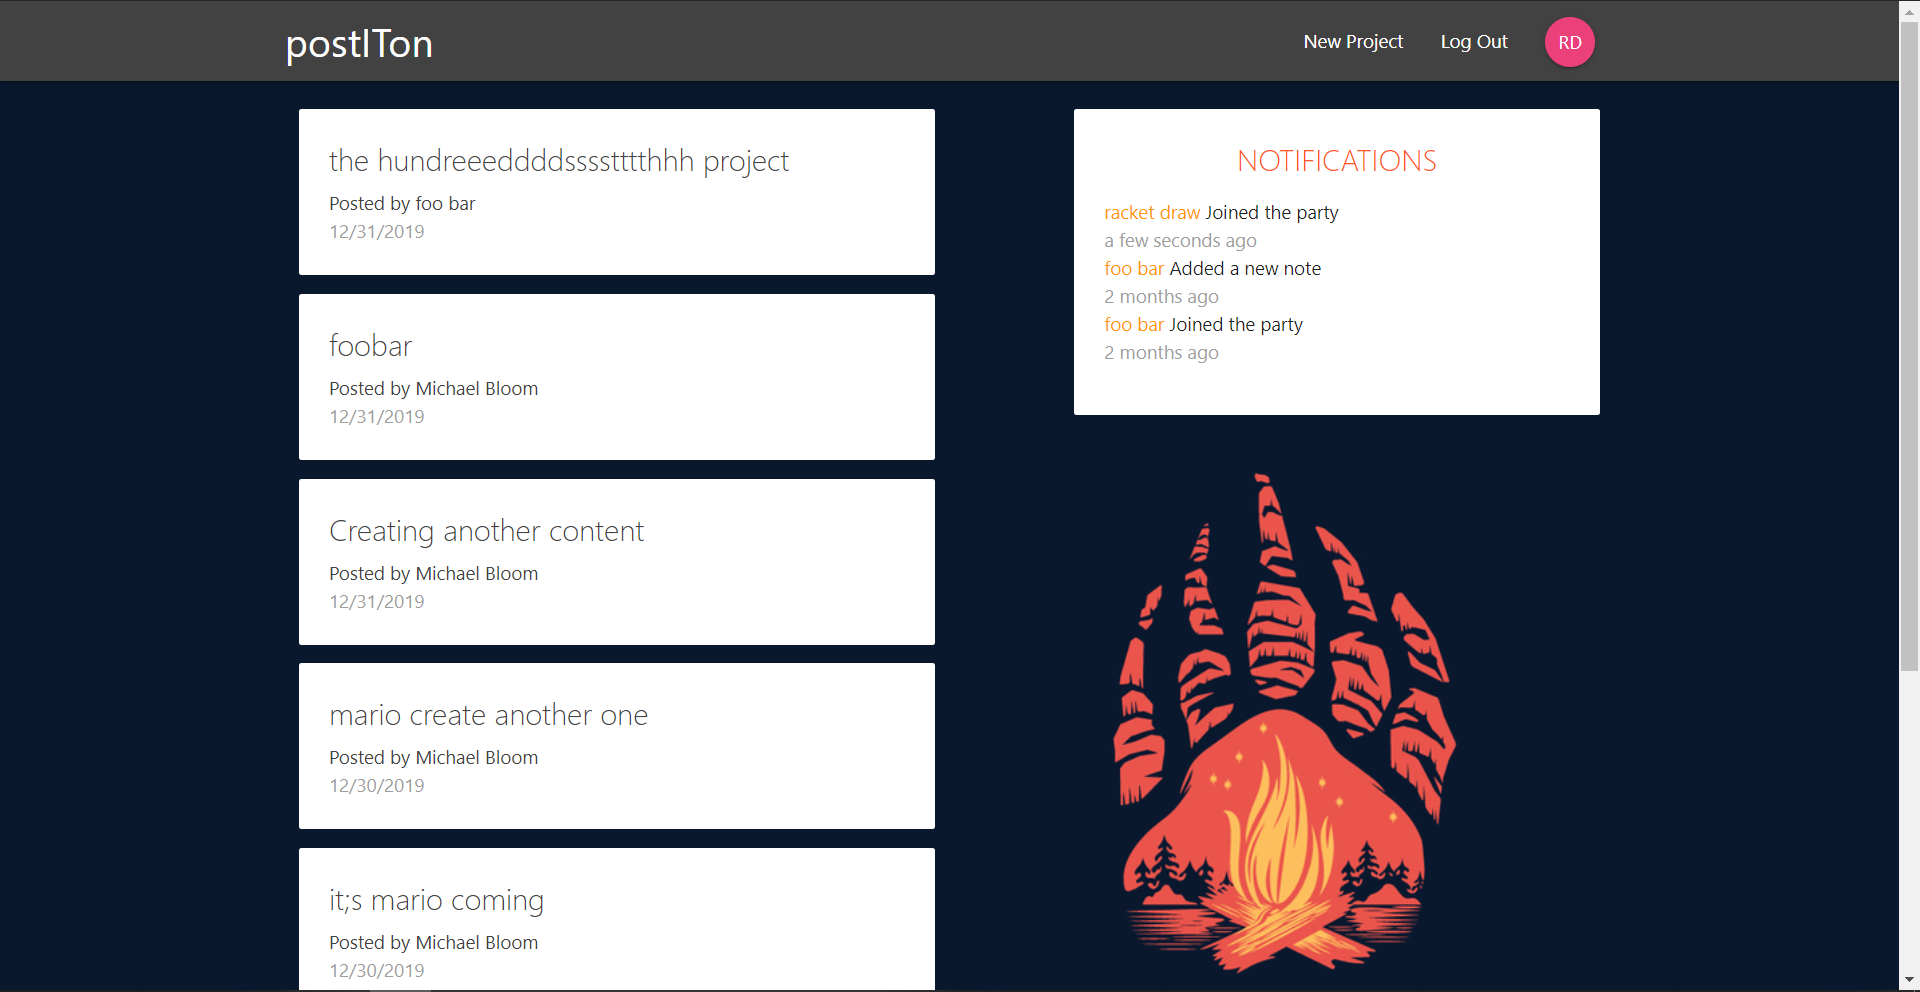
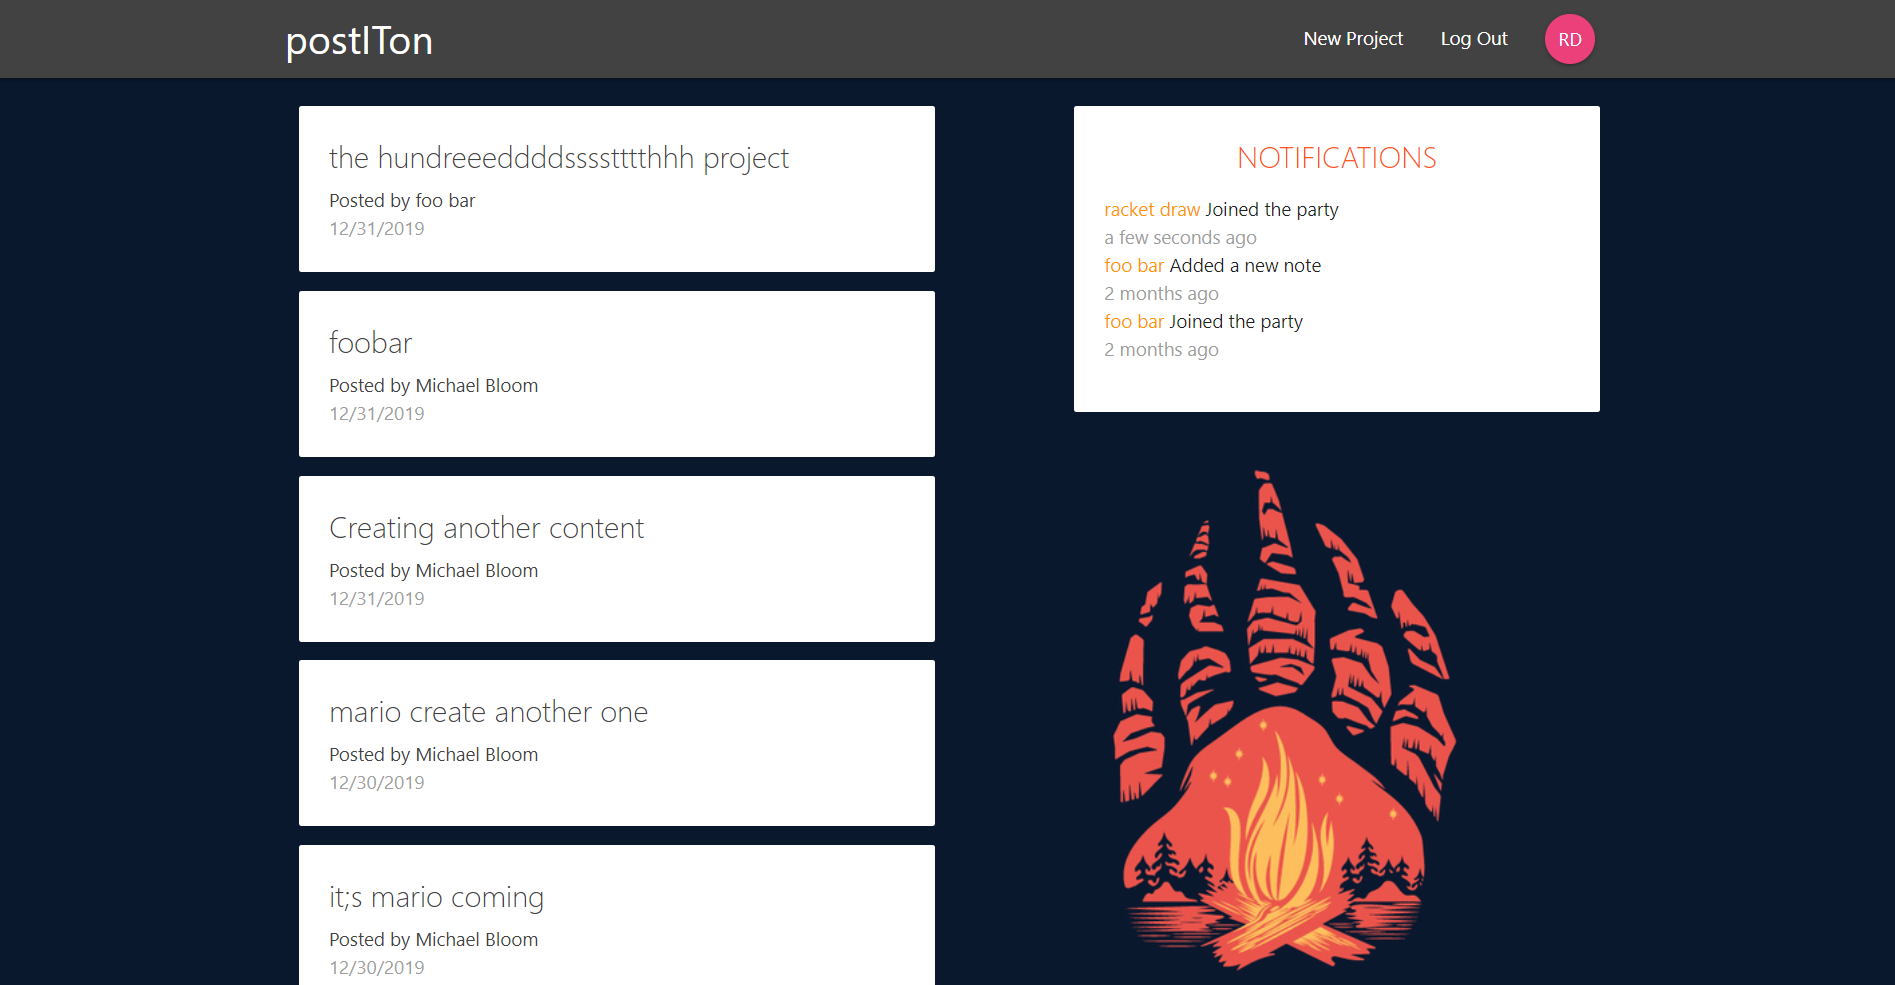
modified nav behaviour & add contact section

diff --git a/index.html b/index.html
@@ -275,6 +275,20 @@
             </div>
           </div>
         </div>
+        <div class="contact">
+          <div class="contact-invitation">
+            Lorem ipsum dolor sit amet consectetur adipisicing elit. Odio illum
+            enim accusamus ipsum? Tempore quasi sit eum facilis, reprehenderit
+            quo maiores at quia reiciendis, ullam iste dignissimos voluptatum
+            tenetur ad.
+          </div>
+          <div class="row contact-media">
+            <div class="col-md-3 contact-link"></div>
+            <div class="col-md-3 contact-link"></div>
+            <div class="col-md-3 contact-link"></div>
+            <div class="col-md-3 contact-link"></div>
+          </div>
+        </div>
       </section>
     </main>
     <script src="js/jquery-3.4.1.js"></script>

diff --git a/js/index.js b/js/index.js
@@ -1,5 +1,4 @@
 $(function() {
-  const navButton = document.querySelector('.navbar-lists');
   $('.hamburger-button').on('click', function(e) {
     $('.navbar-lists').toggleClass('display');
     $('.nav-container').toggleClass('expand');
@@ -9,4 +8,10 @@ $(function() {
     $('.navbar-lists').removeClass('display');
     $('.nav-container').removeClass('expand');
   }
+
+  $(document).on('click', function(e) {
+    const isExpand = $('.nav-container').hasClass('expand');
+    const isFocus = $(e.target).parents('.nav-container').length === 1;
+    if (isExpand && !isFocus) collapseNav();
+  });
 });

diff --git a/css/index.css b/css/index.css
@@ -233,6 +233,7 @@ a.navbar-links {
 .project-card {
   position: relative;
   overflow: hidden;
+  margin: 8px 0px;
 }
 
 .project-details {
